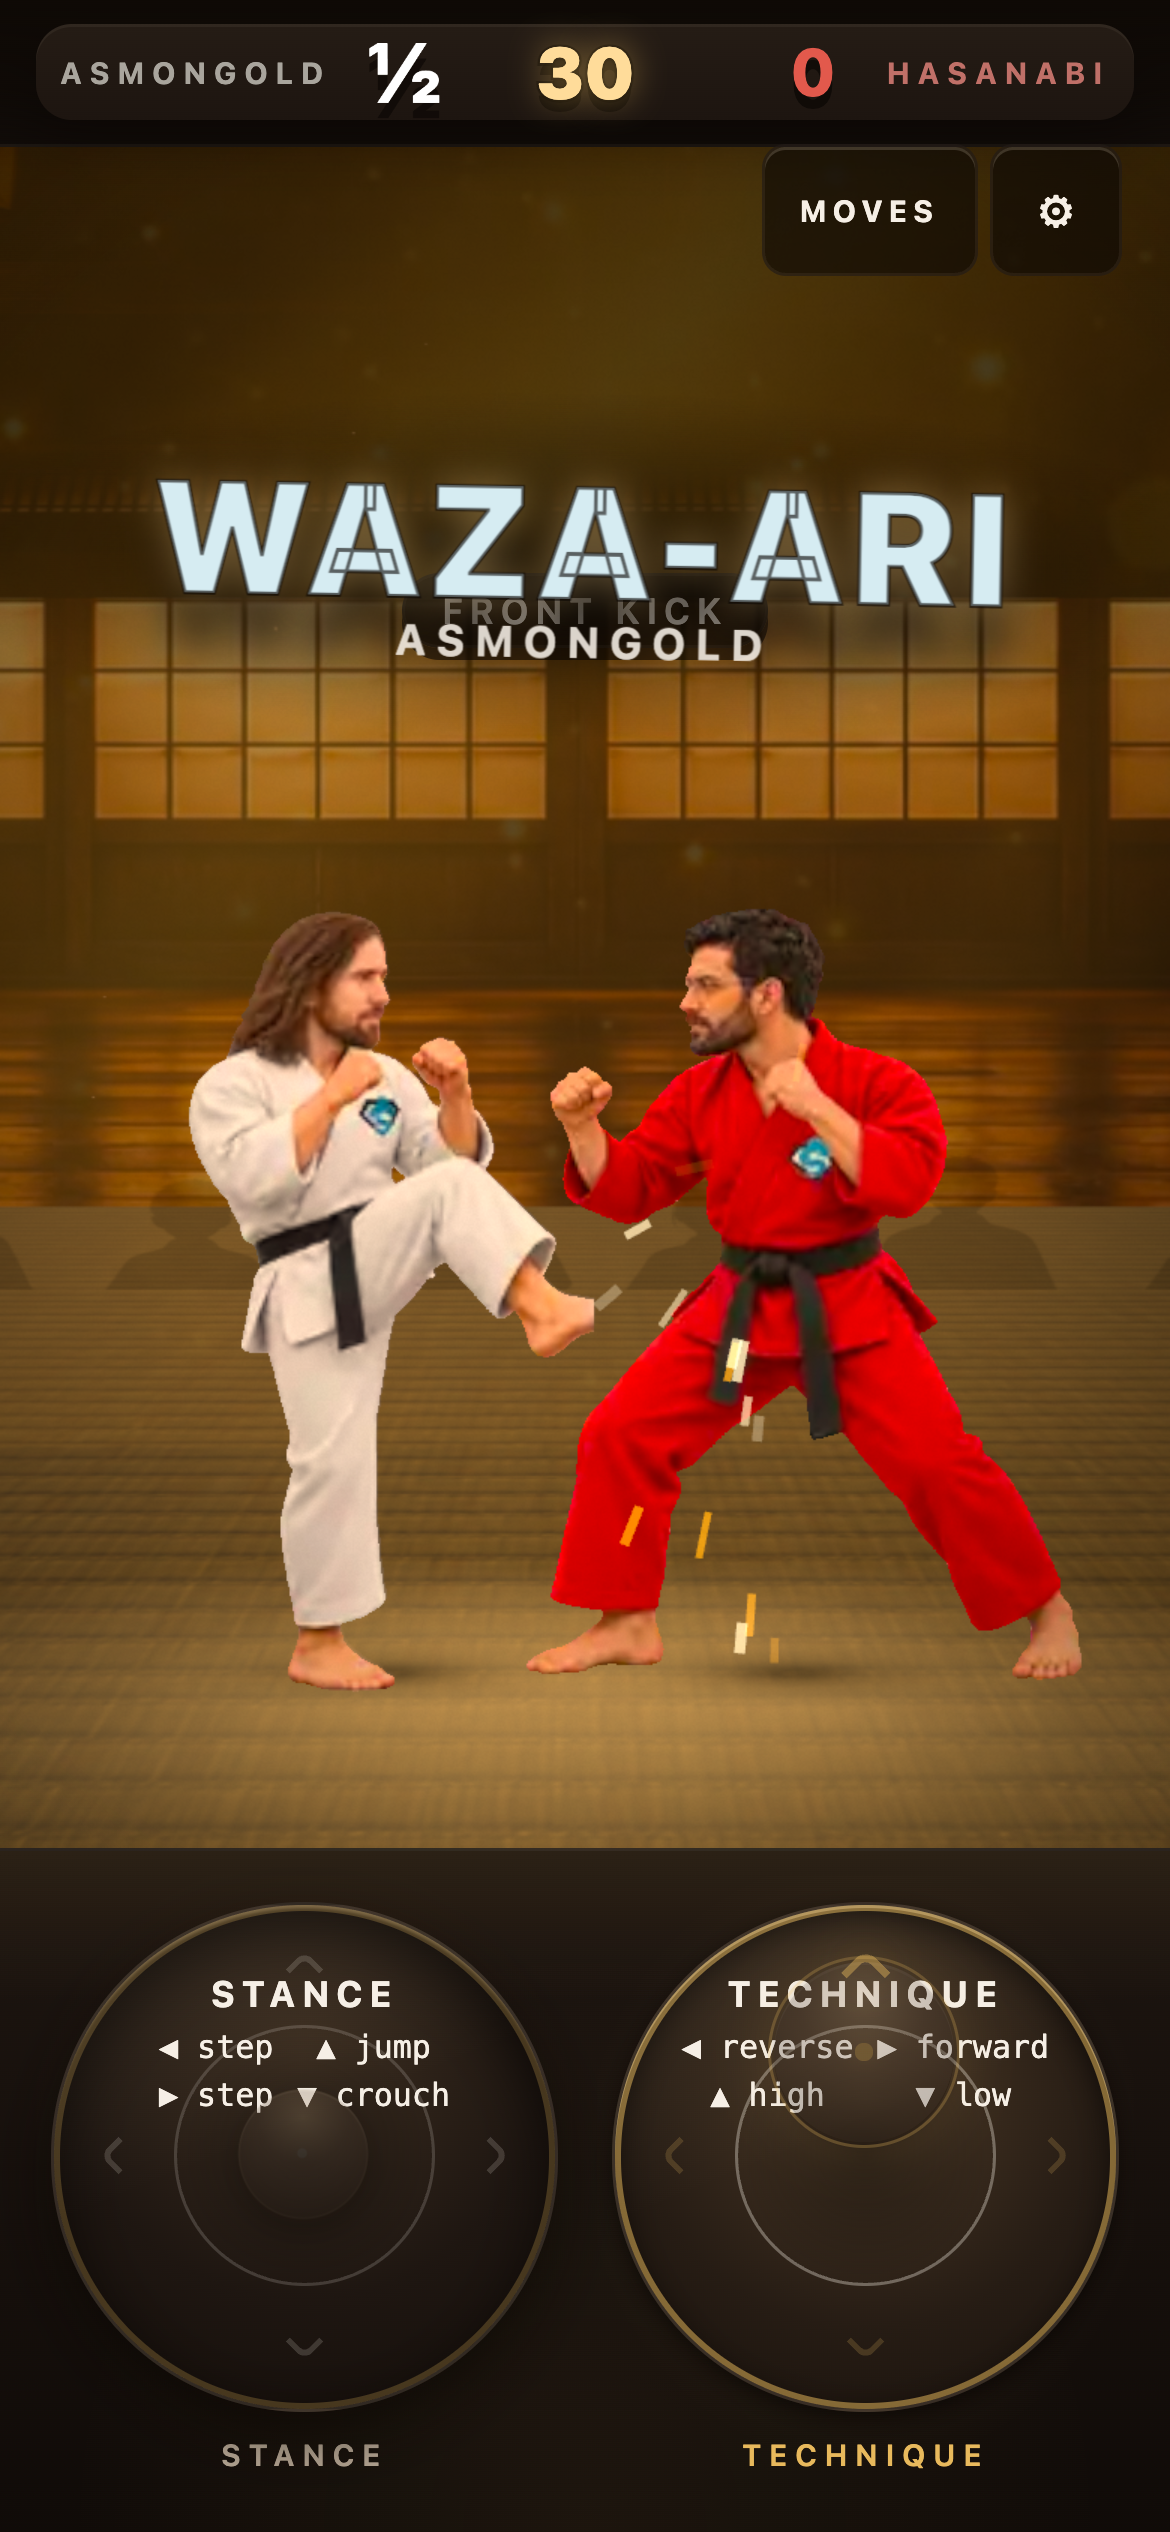
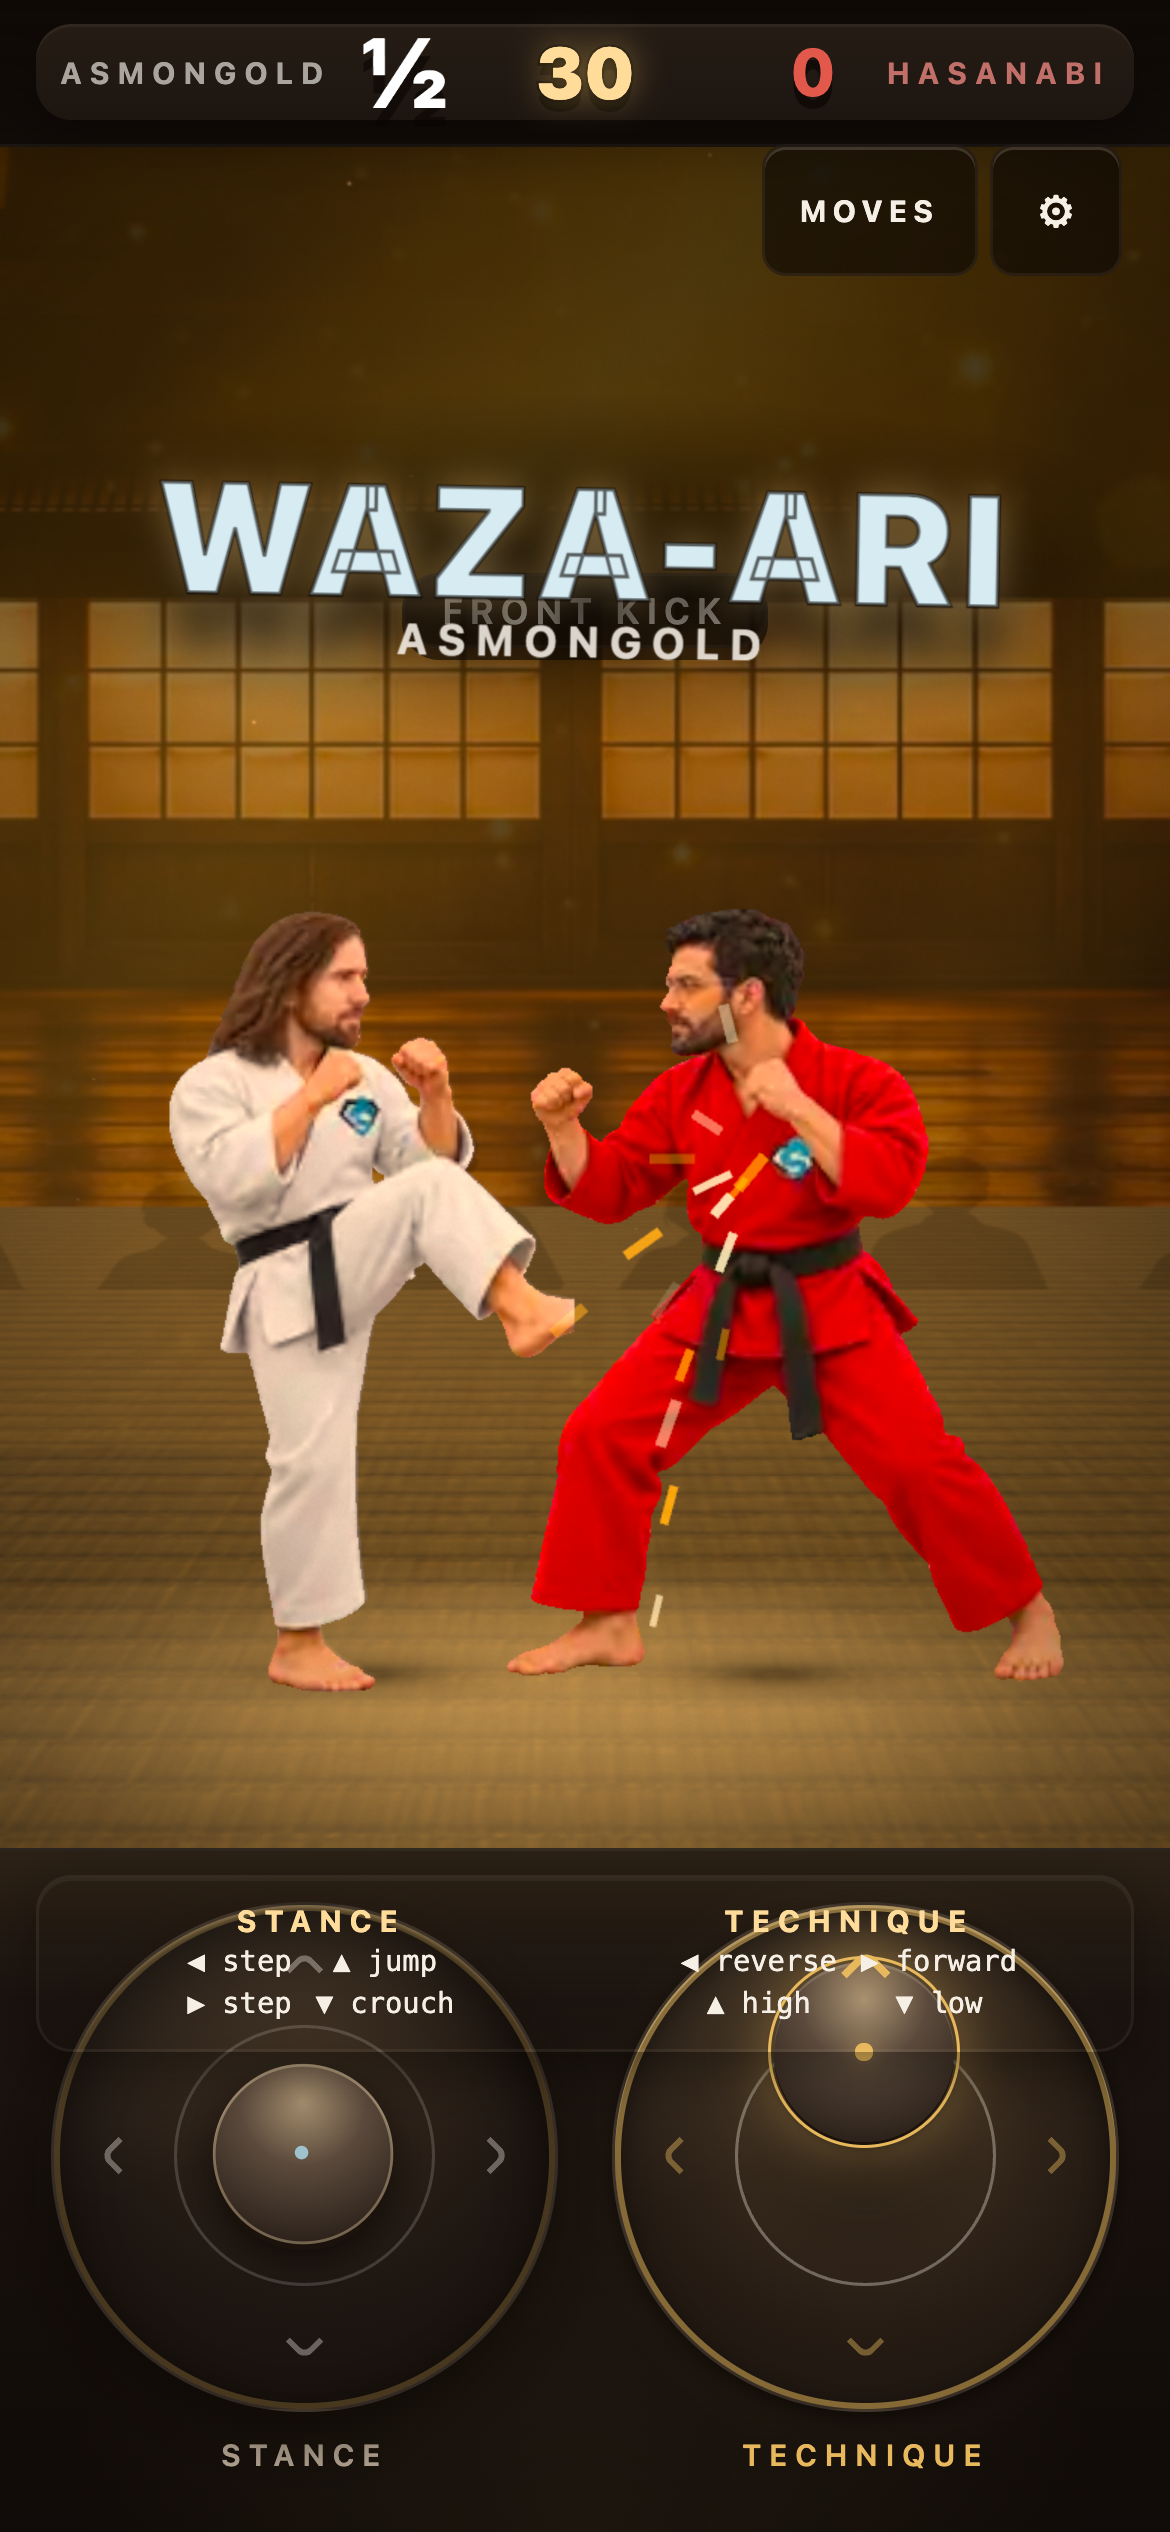
fix(ui): I was wrong about the settings toggles for five rounds
Reviewed by google/gemma-4-31b-it and openai/gpt-6-luna.

- settings checkboxes: the single most-repeated finding in this loop, and I
  rejected it five times with the same sentence — "the capture has all six
  toggles off, so it cannot show a checked state." That was true every time and
  it was also a way of never having to look. `accent-color` tints the tick but
  leaves the box the same value whether it is on or off, so the state had to be
  read from a 3px mark on a near-black sheet. The on state now fills the whole
  plate gold with a glow, the off state gets a real plate, and there is a focus
  ring. Captured a settings screen with two toggles on to prove it, which is
  the check I should have run on round one.

- coach legend off the sticks: three rounds (ling, gemma-4, gpt-6-luna) said
  the instruction text should not sit on the control it describes. They are
  right, and round 9's "move it to the top of the ring" was a smaller version of
  the same wrong answer — the problem is the ring, not where in the ring. The
  lesson is now one strip across the top of the pad, and the rings keep their
  knobs and chevrons, because those are the affordance.

  Shipping it surfaced a bug that had nothing to do with the design: `#pad` is
  `position: static`, so the absolutely-placed strip resolved against the root
  and rendered at y=8 behind the scoreboard. Present in the DOM, correct in
  every computed style, invisible in the screenshot. `#pad` is now positioned.

diff --git a/apps/game/src/styles.css b/apps/game/src/styles.css
@@ -89,6 +89,7 @@
      focus visible without fighting the room. */
   --outline: var(--gold); /* focus ring */
   --check: var(--gold); /* checkbox / accent-color */
+  --toggle-off: rgb(38 30 22 / 0.9); /* the OFF plate, against a near-black sheet */
 
   /* ---- Edges -------------------------------------------------------------- */
 
@@ -1285,6 +1286,11 @@ body:has(.result[data-phase='result'].show) #pad {
 }
 
 #pad {
+  /* Positioned, because the first-run coach strip is absolutely placed at the
+     top of the pad. Without this the strip resolved against the root and
+     rendered at y=8, behind the scoreboard — present in the DOM, correct in
+     every computed style, and invisible in the screenshot. */
+  position: relative;
   transition:
     opacity var(--dur-base) var(--ease-out),
     filter var(--dur-base) var(--ease-out);
@@ -1299,44 +1305,57 @@ body:has(.result[data-phase='result'].show) .stick-zone {
 
 /* ---------- First-run control coach ---------- */
 
-/* A caption inside each stick ring, and only on the first bout. It is biased to
-   the UPPER half of the ring: the ring is the hit area, the thumb rests low
-   and central on it, and a legend set dead centre is a legend the player cannot
-   read while using the control it describes. The STANCE and TECHNIQUE labels
-   under the ring are untouched — the mark titles now use the same two words. */
-.coach-mark {
+/* The first-run lesson, as one strip laid across the top of the pad.
+   Off the sticks entirely: a control being pressed should be showing the
+   control, and the ring's own chevrons already say what a stick is. Three
+   rounds said so, and they were right. */
+.coach-strip {
   position: absolute;
-  inset: 0 0 22% 0;
+  inset-block-start: var(--space-2);
+  inset-inline: var(--space-3);
+  z-index: 3;
   display: grid;
-  align-content: start;
-  justify-items: center;
-  gap: 3px;
-  padding-block-start: 18%;
-  text-align: center;
+  grid-template-columns: 1fr 1fr;
+  gap: var(--space-3);
+  padding: var(--space-2) var(--space-3);
+  border-radius: var(--radius-md);
+  background: var(--coach-plate);
+  backdrop-filter: blur(12px) saturate(0.9);
+  -webkit-backdrop-filter: blur(12px) saturate(0.9);
+  border: 1px solid var(--edge-faint);
+  box-shadow: var(--shadow-panel);
   pointer-events: none;
   animation: coach-in var(--dur-slow) var(--ease-out) both;
 }
 
-.coach-mark strong {
-  font-size: var(--text-xs);
+body.no-backdrop-filter .coach-strip {
+  background: rgb(12 8 4 / 0.94);
+}
+
+.coach-half {
+  display: grid;
+  gap: 1px;
+  justify-items: center;
+  text-align: center;
+}
+
+.coach-half strong {
+  font-size: var(--text-2xs);
   font-weight: var(--weight-bold);
-  letter-spacing: var(--track-wide);
+  letter-spacing: var(--track-label);
   text-transform: uppercase;
-  color: var(--text);
+  color: var(--gold-bright);
 }
 
 .coach-legend {
   display: grid;
   grid-template-columns: repeat(2, auto);
-  gap: 1px var(--space-2);
+  gap: 0 var(--space-2);
   justify-content: center;
   font-family: var(--font-mono);
-  font-size: 0.66rem;
+  font-size: 0.6rem;
   font-style: normal;
-  line-height: 1.4;
-  /* Was --text-muted. The coach mark is the one piece of text on the pad that
-     a player with no prior knowledge cannot decode from context, so it does not
-     get ghosted like a resting detent does. */
+  line-height: 1.45;
   color: var(--text);
 }
 
@@ -1345,31 +1364,20 @@ body:has(.result[data-phase='result'].show) .stick-zone {
   font-style: normal;
 }
 
-/* While the mark is up, the stick RECEDES but does not disappear. An earlier
-   pass hid the knob and the chevrons outright, and the result was two empty
-   rings with text floating in them — on a first run, the one moment the player
-   most needs to know these are sticks, they stopped looking like sticks. The
-   knob shrinks and dims; the chevrons stay, because they are what tells the
-   player the ring has four directions. Everything comes straight back when the
-   mark is dismissed. */
-body.coach-active .knob {
-  opacity: 0.28;
-  transform: scale(0.72);
-}
-
+/* Nothing about the sticks changes while the strip is up — the rings stay lit
+   and their chevrons stay where they are, because they are the affordance. */
+body.coach-active .knob,
 body.coach-active .knob::before,
-body.coach-active .knob::after {
-  opacity: 0.25;
-}
-
-body.coach-active .glyph {
-  opacity: 0.45;
+body.coach-active .knob::after,
+body.coach-active .glyph,
+body.coach-active .stick::before {
+  opacity: 1;
 }
 
 @keyframes coach-in {
   from {
     opacity: 0;
-    transform: translateY(6px);
+    transform: translateY(-6px);
   }
   to {
     opacity: 1;
@@ -1377,7 +1385,7 @@ body.coach-active .glyph {
   }
 }
 
-body.reduced-motion .coach-mark {
+body.reduced-motion .coach-strip {
   animation: none;
 }
 
@@ -1575,6 +1583,33 @@ input:focus-visible,
   height: 22px;
   flex: 0 0 auto;
   accent-color: var(--check);
+  /* A gold plate under the native control. `accent-color` alone tints the
+     tick, but leaves the box the same value whether it is on or off, so the
+     state had to be read from a 3px mark. Five rounds in, this was the most
+     repeated finding in the loop and it was being dismissed every round as
+     "the capture has all six toggles off" — which was true, and was also a way
+     of never having to look. The on state now changes the whole plate, not
+     just the tick, so it is readable at a glance and from across the screen. */
+  background: var(--toggle-off);
+  border: 1px solid var(--edge-strong);
+  border-radius: 5px;
+  transition:
+    background var(--dur-fast) var(--ease-out),
+    border-color var(--dur-fast) var(--ease-out);
+}
+
+.setting-row input[type="checkbox"]:checked {
+  background: var(--gold);
+  border-color: var(--gold-bright);
+  box-shadow: 0 0 0.7rem -0.1rem var(--gold-glow);
+}
+
+body.high-contrast .setting-row input[type="checkbox"] {
+  background: var(--surface-sunken);
+}
+
+body.high-contrast .setting-row input[type="checkbox"]:checked {
+  background: var(--check);
 }
 
 .setting-row input[type="checkbox"]::after {

diff --git a/apps/game/src/coach.ts b/apps/game/src/coach.ts
@@ -51,7 +51,7 @@ export function createControlCoach(): ControlCoach {
   const touched = new Set<'left' | 'right'>();
 
   const clear = (): void => {
-    for (const node of document.querySelectorAll('.coach-mark')) node.remove();
+    for (const node of document.querySelectorAll('.coach-strip')) node.remove();
     document.body.classList.remove('coach-active');
     shown = false;
   };
@@ -74,28 +74,36 @@ export function createControlCoach(): ControlCoach {
       for (const lesson of LESSONS) {
         const zone = document.getElementById(lesson.zone);
         if (zone === null) continue;
-        const mark = document.createElement('div');
-        mark.className = 'coach-mark';
-        // Decorative, and the stick's own aria-label already names it.
-        mark.setAttribute('aria-hidden', 'true');
-        const title = document.createElement('strong');
-        title.textContent = lesson.title;
-        // One element per direction. A single run of text let the browser break
-        // between a glyph and its word — "▲" on one line, "high" on the next —
-        // which is worse than overflow: the reader has to reassemble it. Each
-        // pair is now its own grid cell and can never be split.
-        const body = document.createElement('span');
-        body.className = 'coach-legend';
-        for (const pair of lesson.pairs) {
-          const cell = document.createElement('i');
-          cell.textContent = pair;
-          body.appendChild(cell);
-        }
-        mark.append(title, body);
-        zone.appendChild(mark);
         placed += 1;
       }
       if (placed === 0) return;
+
+      // One strip, not two. The lesson is about the pair — "this is the move
+      // stick, that is the technique stick" is a relationship, and splitting it
+      // across two rings made the player read it twice. It also keeps the rings
+      // clear: a control being pressed should be showing the control.
+      const strip = document.createElement('div');
+      strip.className = 'coach-strip';
+      strip.setAttribute('aria-hidden', 'true');
+      for (const lesson of LESSONS) {
+        const half = document.createElement('div');
+        half.className = 'coach-half';
+        const title = document.createElement('strong');
+        title.textContent = lesson.title;
+        const legend = document.createElement('span');
+        legend.className = 'coach-legend';
+        for (const pair of lesson.pairs) {
+          const cell = document.createElement('i');
+          cell.textContent = pair;
+          legend.appendChild(cell);
+        }
+        half.append(title, legend);
+        strip.appendChild(half);
+      }
+      const pad = document.getElementById('pad');
+      if (pad === null) return;
+      pad.appendChild(strip);
+
       shown = true;
       document.body.classList.add('coach-active');
     },
